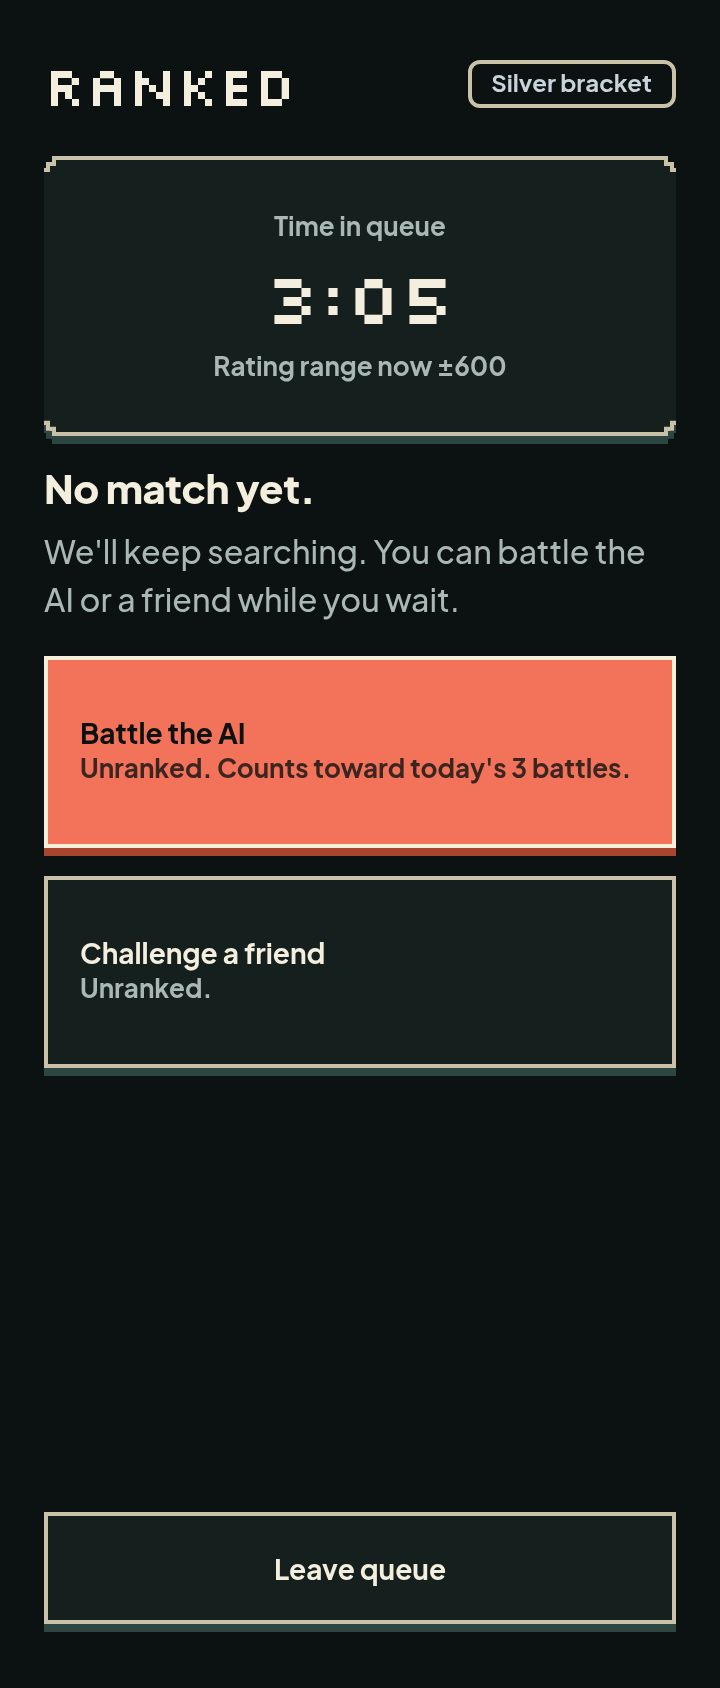
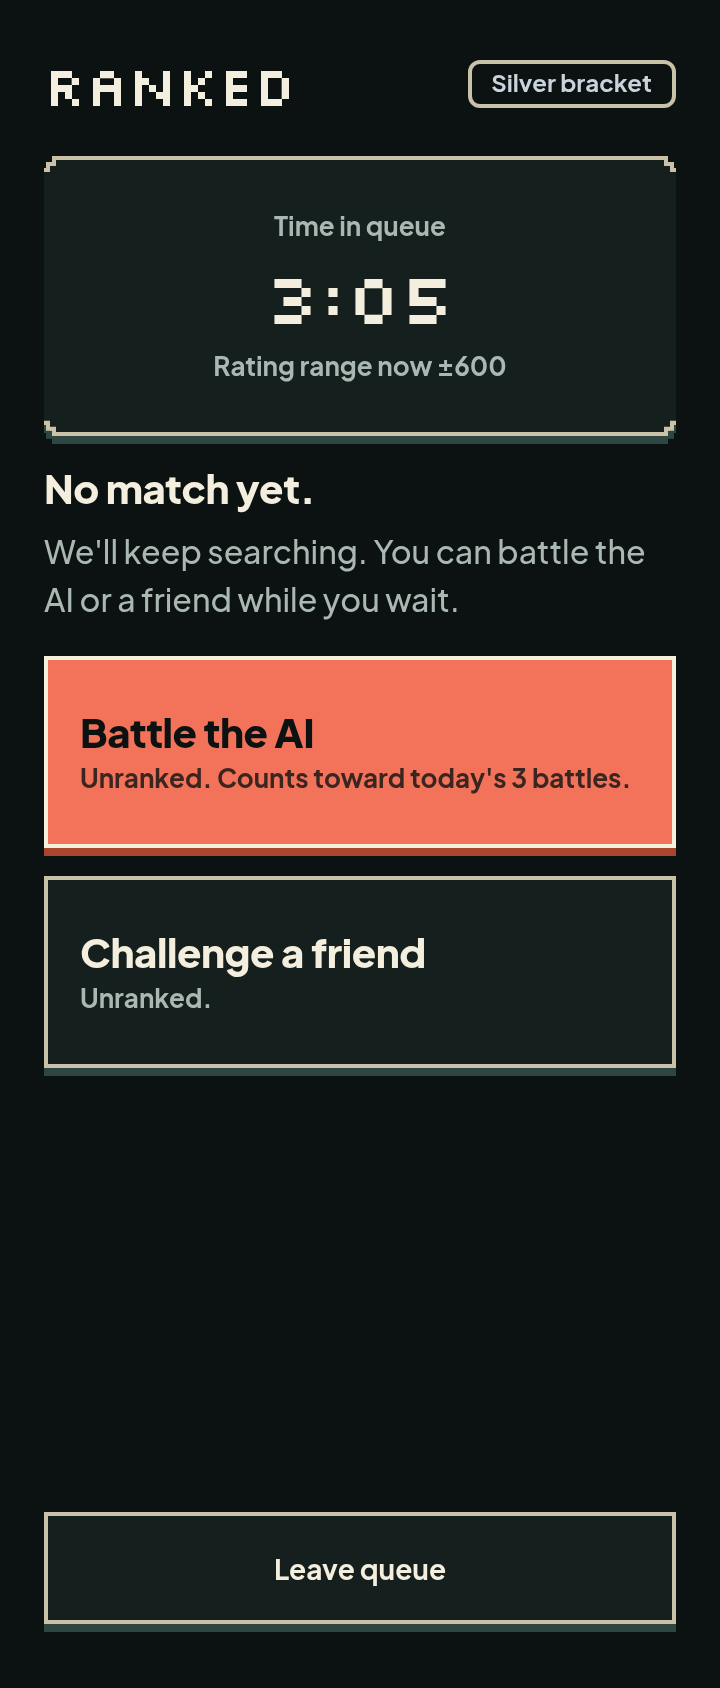
fix: use the heading role on the queue timeout actions

Changed region(s): [[0.0917, 0.4005, 0.8556, 0.4929], [0.1222, 0.5545, 0.6111, 0.6161]]

diff --git a/src/app/battle/queue/page.tsx b/src/app/battle/queue/page.tsx
@@ -264,7 +264,7 @@ export default function RankedQueuePage() {
               disabled={busy !== null}
             >
               <span className="flex flex-col items-start gap-0.5 text-left">
-                <span>Battle the AI</span>
+                <span className="sv-subheading">Battle the AI</span>
                 <span className="sv-label text-background/80">
                   Unranked. Counts toward today&apos;s {BATTLE.dailyLimit} battles.
                 </span>
@@ -278,7 +278,7 @@ export default function RankedQueuePage() {
               disabled={busy !== null}
             >
               <span className="flex flex-col items-start gap-0.5 text-left">
-                <span>Challenge a friend</span>
+                <span className="sv-subheading">Challenge a friend</span>
                 <span className="sv-label text-fg-muted">Unranked.</span>
               </span>
             </Button>
